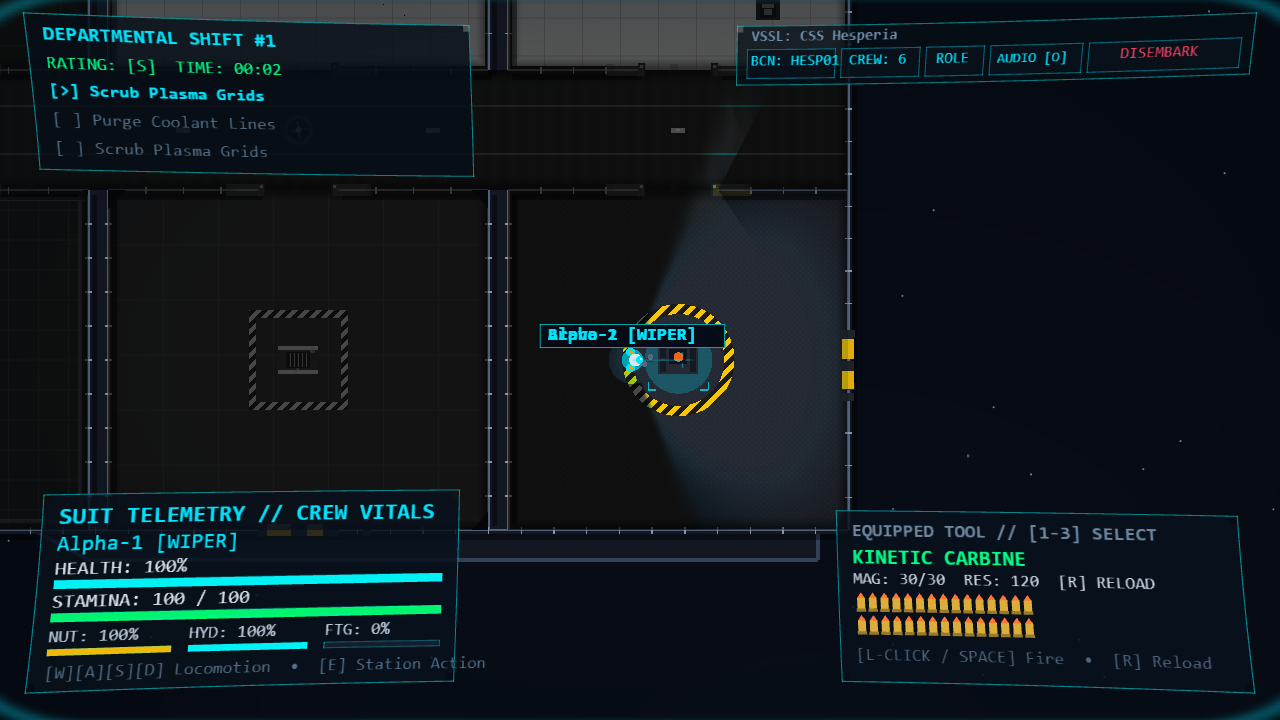
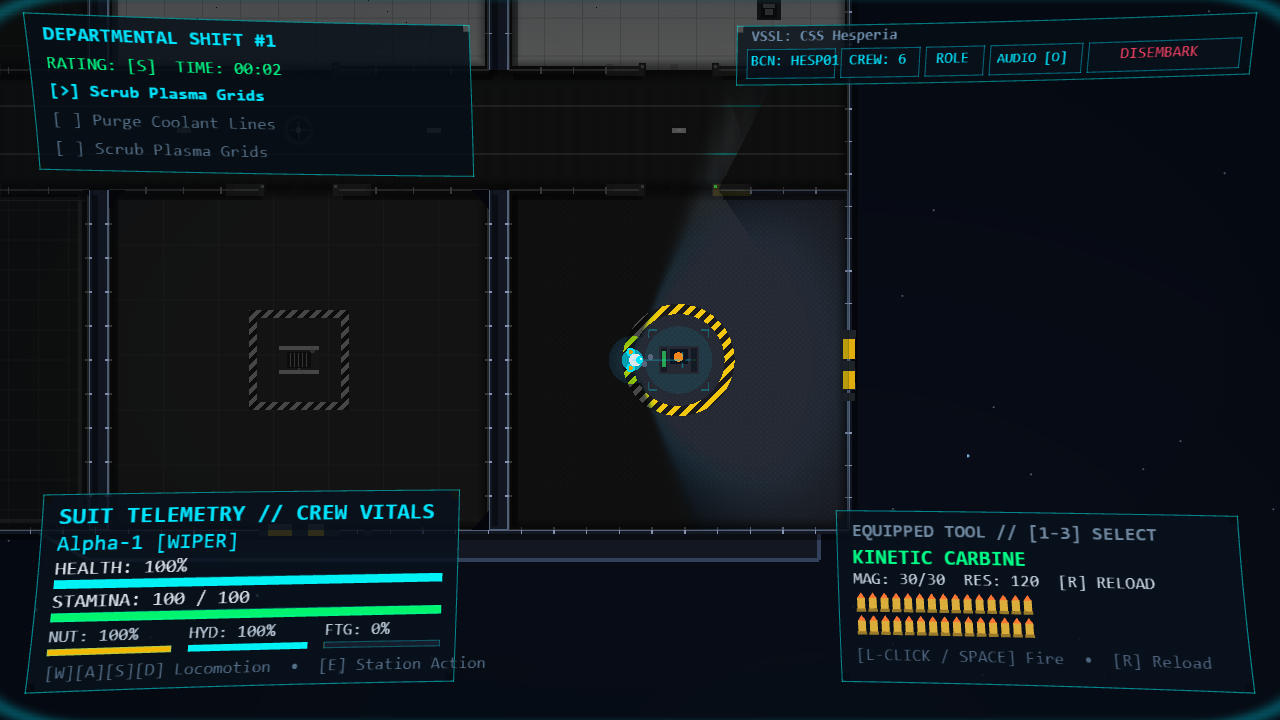
Add interactive crew dossier visor widget and remove floating nameplates

Changed region(s): [[0.4062, 0.4278, 0.5625, 0.55]]

diff --git a/apps/web/src/webgl/hud/HudRenderer.ts b/apps/web/src/webgl/hud/HudRenderer.ts
@@ -21,6 +21,7 @@ import {
   VISOR_GLASS_FS,
   VISOR_GLASS_VS,
 } from '../shaders';
+import { isPawnHovered, resolveCrewDossier } from './crewDossier';
 import { HudAtlas, type TextRenderOptions } from './HudAtlas';
 import { HudHitTester } from './HudHitTester';
 
@@ -829,7 +830,7 @@ export class HudRenderer {
   }
 
   // fallow-ignore-next-line complexity
-  private renderWorldNametags(
+  private renderWorldSpeechBubbles(
     pawns: PawnState[],
     camera: { x: number; y: number },
     width: number,
@@ -841,43 +842,138 @@ export class HudRenderer {
 
     for (const p of pawns) {
       if (losPoly.length >= 3 && !isPointInPolygon({ x: p.x, y: p.y }, losPoly)) continue;
+      if (!p.speechBubble || p.speechBubble.expiresAt <= Date.now()) continue;
+
       const sx = halfW + (p.x - camera.x);
-      const sy = halfH + (p.y - camera.y) - 36;
+      const sy = Math.round(halfH + (p.y - camera.y) - 30);
+      const bubbleText = `"${p.speechBubble.text}"`;
+      const bWidth = Math.min(420, bubbleText.length * 9.5 + 24);
+      const bHeight = 28;
+      const bX = sx - bWidth / 2;
+      const bY = sy - 30;
 
-      const tagText = `${p.callsign} [${p.role.toUpperCase()}]`;
-      const col = p.color || '#00e5ff';
-      const approxW = tagText.length * 11 + 20;
-      const startX = sx - approxW / 2;
+      let br = 0.0;
+      let bg = 0.9;
+      let bb = 1.0;
+      if (p.color?.startsWith('#') && p.color.length >= 7) {
+        br = parseInt(p.color.slice(1, 3), 16) / 255;
+        bg = parseInt(p.color.slice(3, 5), 16) / 255;
+        bb = parseInt(p.color.slice(5, 7), 16) / 255;
+      }
 
-      this.addQuad(startX, sy, approxW, 24, 0.02, 0.04, 0.08, 0.88);
-      this.addBorder(startX, sy, approxW, 24, 1, 0.0, 0.9, 1.0, 0.6);
-      this.addText(tagText, startX + 8, sy + 3, { fontSize: 18, fontWeight: 'bold', color: col });
+      this.addQuad(bX, bY, bWidth, bHeight, 0.02, 0.05, 0.09, 0.94);
+      this.addBorder(bX, bY, bWidth, bHeight, 1, br, bg, bb, 0.85);
+      this.addText(bubbleText, bX + 10, bY + 4, {
+        fontSize: 16,
+        color: '#ffffff',
+      });
+    }
+  }
 
-      // Render floating speech bubble if active
-      if (p.speechBubble && p.speechBubble.expiresAt > Date.now()) {
-        const bubbleText = `"${p.speechBubble.text}"`;
-        const bWidth = Math.min(420, bubbleText.length * 9.5 + 24);
-        const bHeight = 28;
-        const bX = sx - bWidth / 2;
-        const bY = sy - 34;
+  // fallow-ignore-next-line complexity
+  private findHoveredCrewMember(
+    state: HudDrawState,
+    width: number,
+    height: number,
+    losPoly: Point2D[]
+  ): PawnState | null {
+    const halfW = width / 2;
+    const halfH = height / 2;
 
-        let br = 0.0;
-        let bg = 0.9;
-        let bb = 1.0;
-        if (p.color?.startsWith('#') && p.color.length >= 7) {
-          br = parseInt(p.color.slice(1, 3), 16) / 255;
-          bg = parseInt(p.color.slice(3, 5), 16) / 255;
-          bb = parseInt(p.color.slice(5, 7), 16) / 255;
+    if (state.remotePawns) {
+      for (const rp of state.remotePawns) {
+        if (losPoly.length >= 3 && !isPointInPolygon({ x: rp.x, y: rp.y }, losPoly)) continue;
+        if (isPawnHovered(rp, state.camera, halfW, halfH, state.mouseWorld, state.mouseScreen)) {
+          return rp;
         }
-
-        this.addQuad(bX, bY, bWidth, bHeight, 0.02, 0.05, 0.09, 0.94);
-        this.addBorder(bX, bY, bWidth, bHeight, 1, br, bg, bb, 0.85);
-        this.addText(bubbleText, bX + 10, bY + 4, {
-          fontSize: 16,
-          color: '#ffffff',
-        });
       }
     }
+
+    if (
+      state.pawn &&
+      isPawnHovered(state.pawn, state.camera, halfW, halfH, state.mouseWorld, state.mouseScreen)
+    ) {
+      return state.pawn;
+    }
+
+    return null;
+  }
+
+  private renderHoverReticle(
+    p: PawnState,
+    camera: { x: number; y: number },
+    width: number,
+    height: number
+  ): void {
+    const halfW = width / 2;
+    const halfH = height / 2;
+    const sx = Math.round(halfW + (p.x - camera.x));
+    const sy = Math.round(halfH + (p.y - camera.y));
+    const r = 20;
+    const arm = 6;
+
+    this.addQuad(sx - r, sy - r, arm, 1.5, 0.0, 0.9, 1.0, 0.85);
+    this.addQuad(sx - r, sy - r, 1.5, arm, 0.0, 0.9, 1.0, 0.85);
+    this.addQuad(sx + r - arm, sy - r, arm, 1.5, 0.0, 0.9, 1.0, 0.85);
+    this.addQuad(sx + r - 1.5, sy - r, 1.5, arm, 0.0, 0.9, 1.0, 0.85);
+    this.addQuad(sx - r, sy + r - 1.5, arm, 1.5, 0.0, 0.9, 1.0, 0.85);
+    this.addQuad(sx - r, sy + r - arm, 1.5, arm, 0.0, 0.9, 1.0, 0.85);
+    this.addQuad(sx + r - arm, sy + r - 1.5, arm, 1.5, 0.0, 0.9, 1.0, 0.85);
+    this.addQuad(sx + r - 1.5, sy + r - arm, 1.5, arm, 0.0, 0.9, 1.0, 0.85);
+  }
+
+  // fallow-ignore-next-line complexity
+  private renderCrewDossierWidget(p: PawnState, width: number, height: number): void {
+    const dossier = resolveCrewDossier(p);
+    const marginX = Math.max(72, Math.round(width * 0.055));
+    const marginY = Math.max(38, Math.round(height * 0.055));
+    const panelW = 420;
+    const panelH = 175;
+    const x = width - panelW - marginX;
+    const y = marginY + 68;
+
+    this.addCurvedPanel(x, y, panelW, panelH, 6, 0.02, 0.05, 0.09, 0.9);
+
+    this.addText('CREW DOSSIER // VISOR SCAN', x + 15, y + 10, {
+      fontSize: 14,
+      fontWeight: 'bold',
+      color: '#00e5ff',
+    });
+
+    this.addText(dossier.callsign, x + 15, y + 32, {
+      fontSize: 18,
+      fontWeight: 'bold',
+      color: dossier.color,
+    });
+    this.addText(dossier.rank, x + 15, y + 54, {
+      fontSize: 13,
+      color: '#a0c0e0',
+    });
+    this.addText(dossier.department, x + 15, y + 72, {
+      fontSize: 12,
+      color: '#7090b0',
+    });
+
+    this.addText(`DUTY: ${dossier.status}`, x + 15, y + 92, {
+      fontSize: 12,
+      fontWeight: 'bold',
+      color: '#00ff88',
+    });
+
+    this.addQuad(x + 15, y + 112, panelW - 30, 1, 0.0, 0.9, 1.0, 0.25);
+
+    this.addText('SERVICE RECORD // NOTES:', x + 15, y + 118, {
+      fontSize: 11,
+      color: '#55708a',
+    });
+    this.addText(dossier.bioLine1, x + 15, y + 134, {
+      fontSize: 12,
+      color: '#e0e8f0',
+    });
+    this.addText(dossier.bioLine2, x + 15, y + 150, {
+      fontSize: 12,
+      color: '#8fa5b8',
+    });
   }
 
   // fallow-ignore-next-line complexity
@@ -924,7 +1020,13 @@ export class HudRenderer {
     this.renderCenterAlerts(state, width);
 
     const pawnsToTag = [state.pawn, ...(state.remotePawns || [])];
-    this.renderWorldNametags(pawnsToTag, state.camera, width, height, losPoly);
+    this.renderWorldSpeechBubbles(pawnsToTag, state.camera, width, height, losPoly);
+
+    const hovered = this.findHoveredCrewMember(state, width, height, losPoly);
+    if (hovered) {
+      this.renderHoverReticle(hovered, state.camera, width, height);
+      this.renderCrewDossierWidget(hovered, width, height);
+    }
 
     const screenMat = createScreenMatrix(width, height);
 

diff --git a/apps/web/src/webgl/hud/crewDossier.ts b/apps/web/src/webgl/hud/crewDossier.ts
@@ -1,0 +1,97 @@
+import type { PawnState, StartingRole } from '@kybernetes/protocol';
+
+export interface CrewDossierInfo {
+  callsign: string;
+  rank: string;
+  department: string;
+  status: string;
+  bioLine1: string;
+  bioLine2: string;
+  color: string;
+}
+
+interface RoleDossierTemplate {
+  rank: string;
+  department: string;
+  bioLine1: string;
+  bioLine2: string;
+}
+
+const ROLE_TEMPLATES: Record<StartingRole, RoleDossierTemplate> = {
+  wiper: {
+    rank: '3rd Class Reactor Wiper',
+    department: 'ENGINEERING [ENG-3]',
+    bioLine1: 'Claims the reactor core "sings to him".',
+    bioLine2: 'Wiped hot plasma coils with a dirty sock.',
+  },
+  galley_hand: {
+    rank: 'Mess Specialist & Paste Brewer',
+    department: 'LOGISTICS [LOG-3]',
+    bioLine1: 'Master of reconstituted nutrient mash.',
+    bioLine2: 'Insists grey lumps are "flavor granules".',
+  },
+  security_private: {
+    rank: 'Shipboard Marine Private',
+    department: 'TACTICAL SECURITY [SEC-3]',
+    bioLine1: 'Has shot 14 bulkheads and 0 intruders.',
+    bioLine2: 'Sleeps with carbine for "readiness".',
+  },
+  hydro_tender: {
+    rank: 'Biomass & Scrubber Technician',
+    department: 'LIFE SUPPORT [BIO-3]',
+    bioLine1: 'Talks to hydroponic algae in private.',
+    bioLine2: 'Convinced tomatoes hold naval secrets.',
+  },
+  stevedore: {
+    rank: 'Senior Cargo Rigging Specialist',
+    department: 'DECK OPERATIONS [HLD-3]',
+    bioLine1: 'Fixes cargo jams by kicking them hard.',
+    bioLine2: 'Unrivaled arm wrestling champ on Deck-A.',
+  },
+};
+
+const CADET_TEMPLATE: RoleDossierTemplate = {
+  rank: 'Junior Fleet Cadet',
+  department: 'GENERAL SERVICE [CAD-1]',
+  bioLine1: 'Memorized all 400 safety regulations.',
+  bioLine2: 'Panics if oxygen dips below 98%.',
+};
+
+function resolveStatus(pawn: PawnState): string {
+  if (pawn.isWelding) return '[EMERGENCY ARC WELDING]';
+  if (pawn.isOperating) return '[OPERATING STATION CONSOLE]';
+  if (pawn.isResting) return '[OFF-WATCH / QUARTERS REST]';
+  return '[ON WATCH / CORRIDOR PATROL]';
+}
+
+export function resolveCrewDossier(pawn: PawnState): CrewDossierInfo {
+  const tpl = ROLE_TEMPLATES[pawn.role] || CADET_TEMPLATE;
+  return {
+    callsign: pawn.callsign || 'Cadet',
+    rank: tpl.rank,
+    department: tpl.department,
+    status: resolveStatus(pawn),
+    bioLine1: tpl.bioLine1,
+    bioLine2: tpl.bioLine2,
+    color: pawn.color || '#00e5ff',
+  };
+}
+
+export function isPawnHovered(
+  p: PawnState,
+  cam: { x: number; y: number },
+  halfW: number,
+  halfH: number,
+  mouseWorld?: { x: number; y: number },
+  mouseScreen?: { x: number; y: number }
+): boolean {
+  if (mouseWorld && Math.hypot(p.x - mouseWorld.x, p.y - mouseWorld.y) <= 32) {
+    return true;
+  }
+  if (mouseScreen) {
+    const sx = halfW + (p.x - cam.x);
+    const sy = halfH + (p.y - cam.y);
+    return Math.hypot(sx - mouseScreen.x, sy - mouseScreen.y) <= 32;
+  }
+  return false;
+}

diff --git a/apps/web/e2e/smoke.spec.ts b/apps/web/e2e/smoke.spec.ts
@@ -44,7 +44,22 @@ test.describe('Kybernetes HUD Smoke Test', () => {
     });
 
     await page.setViewportSize({ width: 1280, height: 720 });
+    await page.goto('/?e2e=true');
+    await page.getByTestId('quick-board-btn').click();
+    await page.waitForTimeout(600);
+
+    await page.mouse.move(400, 200);
     await page.waitForTimeout(400);
+    await page.screenshot({
+      path: 'C:/Users/jonat/.gemini/antigravity/brain/9ba7b719-c9d3-4458-b337-560f7c7a90d8/nameplate_removed_hud.png',
+    });
+
+    // Hover mouse directly over the crew member at screen center (640, 360)
+    await page.mouse.move(640, 360);
+    await page.waitForTimeout(400);
+    await page.screenshot({
+      path: 'C:/Users/jonat/.gemini/antigravity/brain/9ba7b719-c9d3-4458-b337-560f7c7a90d8/crew_dossier_hud.png',
+    });
     await page.screenshot({
       path: 'C:/Users/jonat/.gemini/antigravity/brain/e40c455b-b06c-4b84-922b-edbfbc5751e2/curved_helmet_hud.png',
     });

diff --git a/apps/web/src/webgl/hud/index.ts b/apps/web/src/webgl/hud/index.ts
@@ -1,3 +1,4 @@
+export * from './crewDossier';
 export * from './HudAtlas';
 export * from './HudHitTester';
 export * from './HudRenderer';

diff --git a/AGENTS.md b/AGENTS.md
@@ -108,3 +108,8 @@ yarn changeset
 ### Biome Conventions
 - Use `node:path`, `node:fs`, `node:crypto` prefix for all Node built-in imports.
 - Run `yarn lint:fix` to auto-sort imports and format before running checks.
+
+### HUD & Visor Layout Invariants
+- **Dynamic Visor Margins**: Never place HUD cards or modal overlays at fixed vertical coordinates (e.g. `y = 80`). Always offset from calculated screen margins (`marginY = Math.max(38, Math.round(height * 0.055))`) and account for top visor height (`marginY + 68` for a 14px gap below the 54px header).
+- **Monospace Text Budgeting**: For 2D canvas/WebGL monospace text, budget $\approx 7.2\text{px}$ per character at 12px font size. Always ensure `string.length * charWidth <= panelWidth - 2 * padding` or truncate/wrap dynamically to prevent text overflowing card boundaries.
+- **HUD Renderer Modularization**: To comply with Fallow cognitive complexity limits, never inline complex role/status formatting or geometric hit-testing inside `HudRenderer` methods; isolate them in pure helper modules.

diff --git a/.agents/skills/web-app/SKILL.md b/.agents/skills/web-app/SKILL.md
@@ -27,6 +27,10 @@ authoritative for simulation results.
 5. **Accessibility and resilience**: interactive HUD controls need usable
   labels/focus behavior, and rendering/network failures should not crash the
   entire app.
+6. **Visor safe areas & text bounds**: Anchor dynamic HUD cards relative to
+  `marginY`/`marginX` and top header heights rather than hardcoded pixel offsets.
+  Calculate monospace text widths ($\approx 7.2\text{px}$/char at 12px) to
+  prevent HUD text overflow.
 
 ## Change Workflow
 
@@ -43,3 +47,6 @@ authoritative for simulation results.
 - Keep canvas loops and animation callbacks cancellable; do not leak RAF or
   event listeners.
 - Remove unused icon imports and hooks so Biome and Fallow remain clean.
+- When writing Playwright E2E tests involving mouse moves or canvas hover states,
+  re-navigate (`page.goto`) after `page.setViewportSize()` to guarantee canvas
+  buffer and CSS dimensions synchronize before dispatching pointer events.

diff --git a/.changeset/crew-dossier-visor-widget.md b/.changeset/crew-dossier-visor-widget.md
@@ -1,0 +1,5 @@
+---
+"@kybernetes/web": patch
+---
+
+Replace floating pawn nameplates with an interactive crew dossier visor HUD widget activated on mouse hover, featuring department badges, tactical reticle, duty status, and service record notes.
